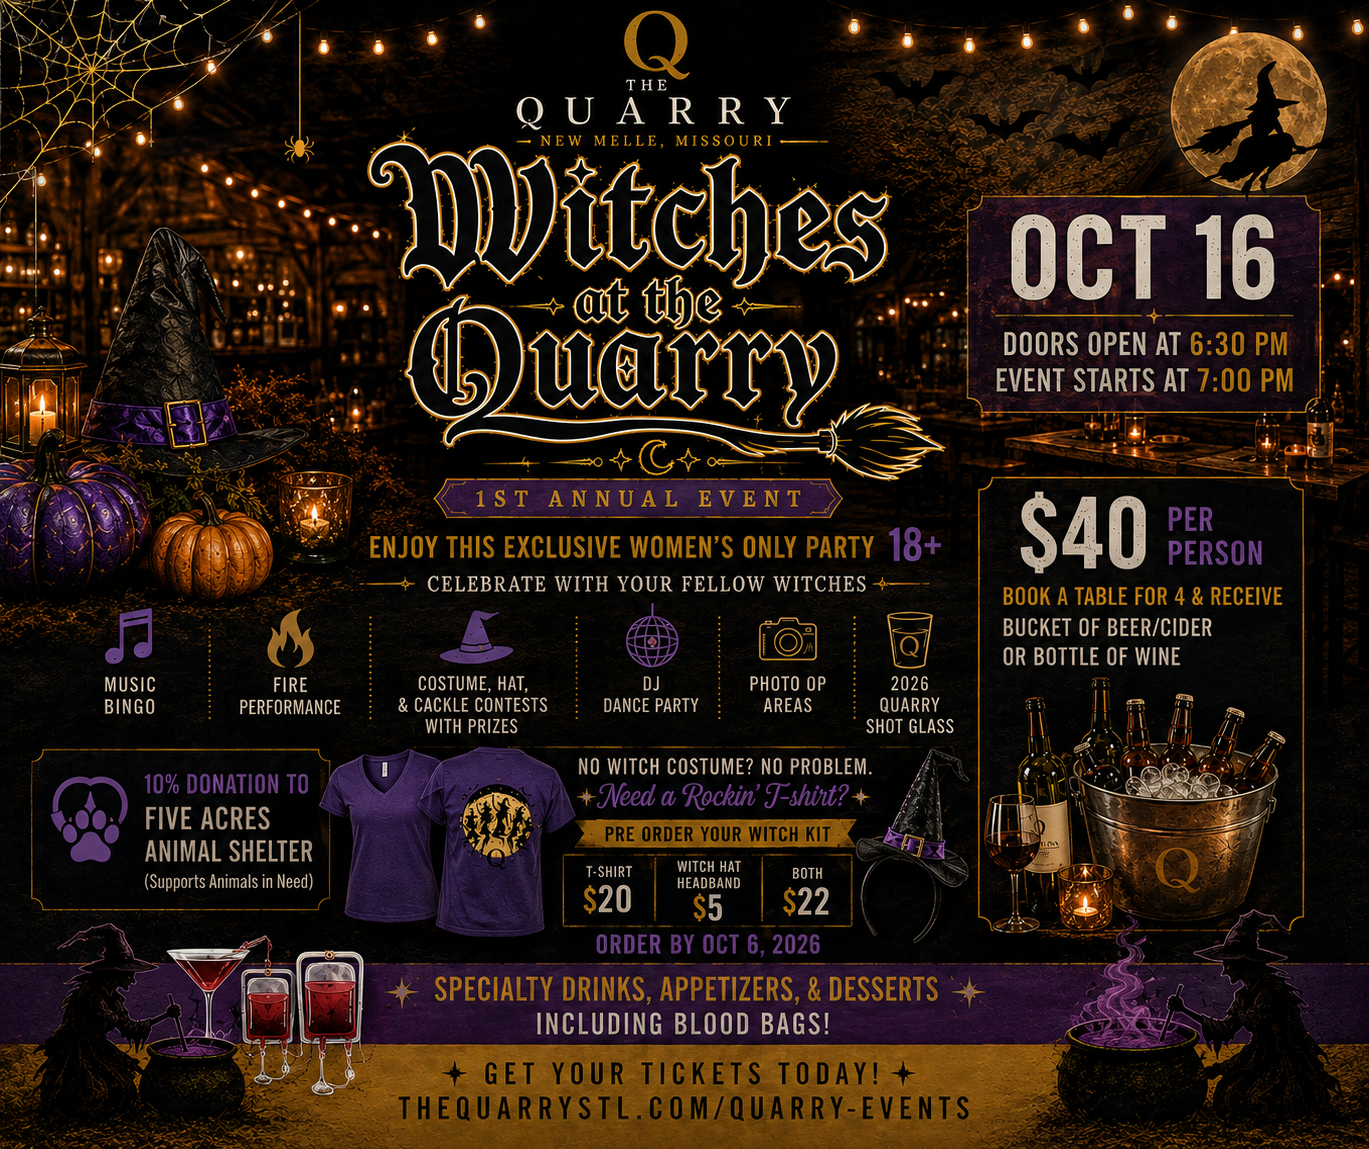
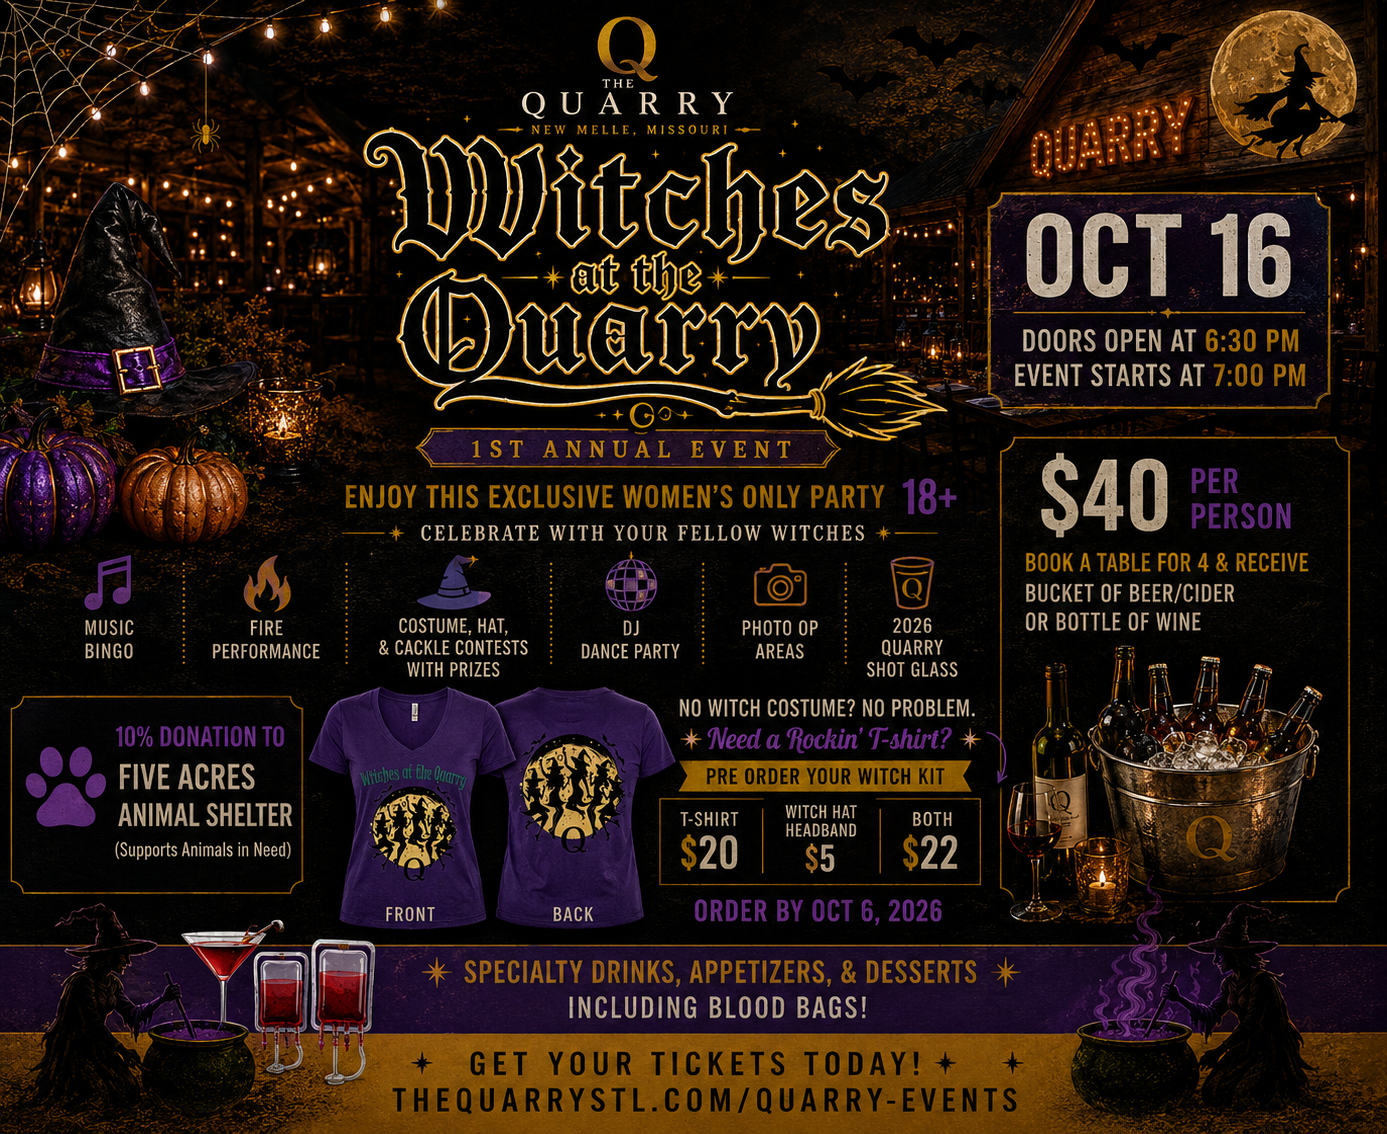
Add real Witch Kit add-on to checkout, update flyer image
New generic add-on system (opt-in per event via evData.addOns) so
guests can add merch to their ticket purchase in the same Square
checkout: T-Shirt \$20, Witch Hat Headband \$5, or Both \$22 for
Witches at The Quarry. Purely additive on the backend - untouched for
every event without addOns defined, and kept out of capacity/qty,
the payment_note regex, and Square metadata. Also swaps in the
refined final flyer image.

diff --git a/quarry-event-detail.html b/quarry-event-detail.html
@@ -656,6 +656,29 @@
                 html += '</div>';
             }
 
+            // ─── Optional add-ons (e.g. merch) ───
+            var hasAddOns = Array.isArray(evt.addOns) && evt.addOns.length > 0;
+            if (hasAddOns) {
+                html += '<div id="detailAddOnGroup" style="margin-top:16px;">';
+                html += '<label>' + (evt.addOnLabel || 'Add-On') + ' (optional)</label>';
+                html += '<select id="detailAddOnSelect" onchange="onDetailAddOnChange()">';
+                html += '<option value="">None</option>';
+                for (var aoi = 0; aoi < evt.addOns.length; aoi++) {
+                    var aoDef = evt.addOns[aoi];
+                    var aoPrice = parseInt(aoDef.price, 10) || 0;
+                    html += '<option value="' + (aoDef.id || '') + '" data-price="' + aoPrice + '">' + (aoDef.name || 'Add-On') + ' — $' + (aoPrice / 100).toFixed(2) + '</option>';
+                }
+                html += '</select>';
+                html += '<div id="detailAddOnQtyGroup" style="display:none;margin-top:10px;">';
+                html += '<label for="detailAddOnQty" style="font-size:13px;">Quantity</label>';
+                html += '<input type="number" id="detailAddOnQty" min="1" max="20" value="1" onchange="updateDetailSummary()">';
+                html += '</div>';
+                if (evt.addOnNote) {
+                    html += '<div style="font-size:12px;color:#888;margin-top:6px;">' + evt.addOnNote + '</div>';
+                }
+                html += '</div>';
+            }
+
             // Coupon Code
             html += '<div style="margin-top:16px;">';
             html += '<label>Coupon Code</label>';
@@ -1091,6 +1114,13 @@
         };
 
         // ─── Tier change handler for detail page ───
+        window.onDetailAddOnChange = function() {
+            var sel = document.getElementById('detailAddOnSelect');
+            var qtyGroup = document.getElementById('detailAddOnQtyGroup');
+            if (qtyGroup) qtyGroup.style.display = (sel && sel.value) ? 'block' : 'none';
+            updateDetailSummary();
+        };
+
         window.onDetailTierChange = function() {
             var tierSelect = document.getElementById('detailTicketTier');
             if (!tierSelect) return;
@@ -1222,11 +1252,23 @@
                 }
             }
 
-            var totalCents = Math.max(0, subtotalCents - discountCents);
-
             if (discountCents > 0) {
                 html += '<div style="display:flex;justify-content:space-between;color:#3cb464;margin-top:4px;"><span>' + discountLabel + '</span><span>-$' + (discountCents / 100).toFixed(2) + '</span></div>';
             }
+
+            // Optional add-on (e.g. merch) — priced separately, not subject to the ticket coupon.
+            var addOnCents = 0;
+            var addOnSel = document.getElementById('detailAddOnSelect');
+            if (addOnSel && addOnSel.value) {
+                var addOnOpt = addOnSel.options[addOnSel.selectedIndex];
+                var addOnUnitPrice = parseInt(addOnOpt.dataset.price, 10) || 0;
+                var addOnQtyEl = document.getElementById('detailAddOnQty');
+                var addOnQty = Math.max(1, parseInt(addOnQtyEl && addOnQtyEl.value, 10) || 1);
+                addOnCents = addOnUnitPrice * addOnQty;
+                html += '<div style="display:flex;justify-content:space-between;margin-top:4px;"><span>' + addOnOpt.textContent.split(' — ')[0] + ' &times; ' + addOnQty + '</span><span>$' + (addOnCents / 100).toFixed(2) + '</span></div>';
+            }
+
+            var totalCents = Math.max(0, subtotalCents - discountCents) + addOnCents;
 
             detailsDiv.innerHTML = html;
             totalDiv.textContent = '$' + (totalCents / 100).toFixed(2);
@@ -1372,6 +1414,11 @@
             }
             if (lineItems && lineItems.length) {
                 payload.lineItems = lineItems;
+            }
+            var addOnSelFinal = document.getElementById('detailAddOnSelect');
+            if (addOnSelFinal && addOnSelFinal.value) {
+                var addOnQtyFinal = document.getElementById('detailAddOnQty');
+                payload.addOns = [{ id: addOnSelFinal.value, qty: Math.max(1, parseInt(addOnQtyFinal && addOnQtyFinal.value, 10) || 1) }];
             }
 
             fetch('/.netlify/functions/event-register', {

diff --git a/netlify/functions/event-register.js b/netlify/functions/event-register.js
@@ -490,6 +490,38 @@ exports.handler = async function(event) {
       });
     }
 
+    // ---- OPTIONAL ADD-ONS (e.g. merch) -----------------------------------
+    // Purely additive: only ever touches the order when the event defines
+    // evData.addOns AND the client actually requests one. Deliberately kept
+    // out of `qty` (capacity), the payment_note (the webhook's regex parses
+    // that for seating/arrival info only) and Square metadata (already at
+    // its 10-entry cap) — add-ons are just extra Square line items on the
+    // same order, visible to staff on the order itself.
+    const bodyAddOns = Array.isArray(body.addOns) ? body.addOns : [];
+    if (bodyAddOns.length) {
+      if (!Array.isArray(evData.addOns) || !evData.addOns.length) {
+        return { statusCode: 400, headers, body: JSON.stringify({ error: 'This event has no add-ons available.' }) };
+      }
+      const addOnMap = {};
+      evData.addOns.forEach(function(a) { addOnMap[String(a.id || '').trim().toLowerCase()] = a; });
+      for (let i = 0; i < bodyAddOns.length; i++) {
+        const reqAddOn = bodyAddOns[i] || {};
+        const addOnDef = addOnMap[String(reqAddOn.id || '').trim().toLowerCase()];
+        if (!addOnDef) {
+          return { statusCode: 400, headers, body: JSON.stringify({ error: 'Unknown add-on: ' + reqAddOn.id }) };
+        }
+        const addOnPrice = parseInt(addOnDef.price, 10) || 0;
+        if (addOnPrice <= 0) continue;
+        const addOnQty = Math.max(1, Math.min(20, parseInt(reqAddOn.qty, 10) || 1));
+        squareLineItems.push({
+          name: String(addOnDef.name || 'Add-On').slice(0, 255),
+          note: (evData.date || '') + ' at The Quarry',
+          quantity: String(addOnQty),
+          base_price_money: { amount: addOnPrice, currency: 'USD' }
+        });
+      }
+    }
+
     // Build Square Payment Link
     const tierSummary = (chosenOption && chosenOption.pricePerSeat)
       ? (units + 'x ' + (chosenOption.name || ''))
